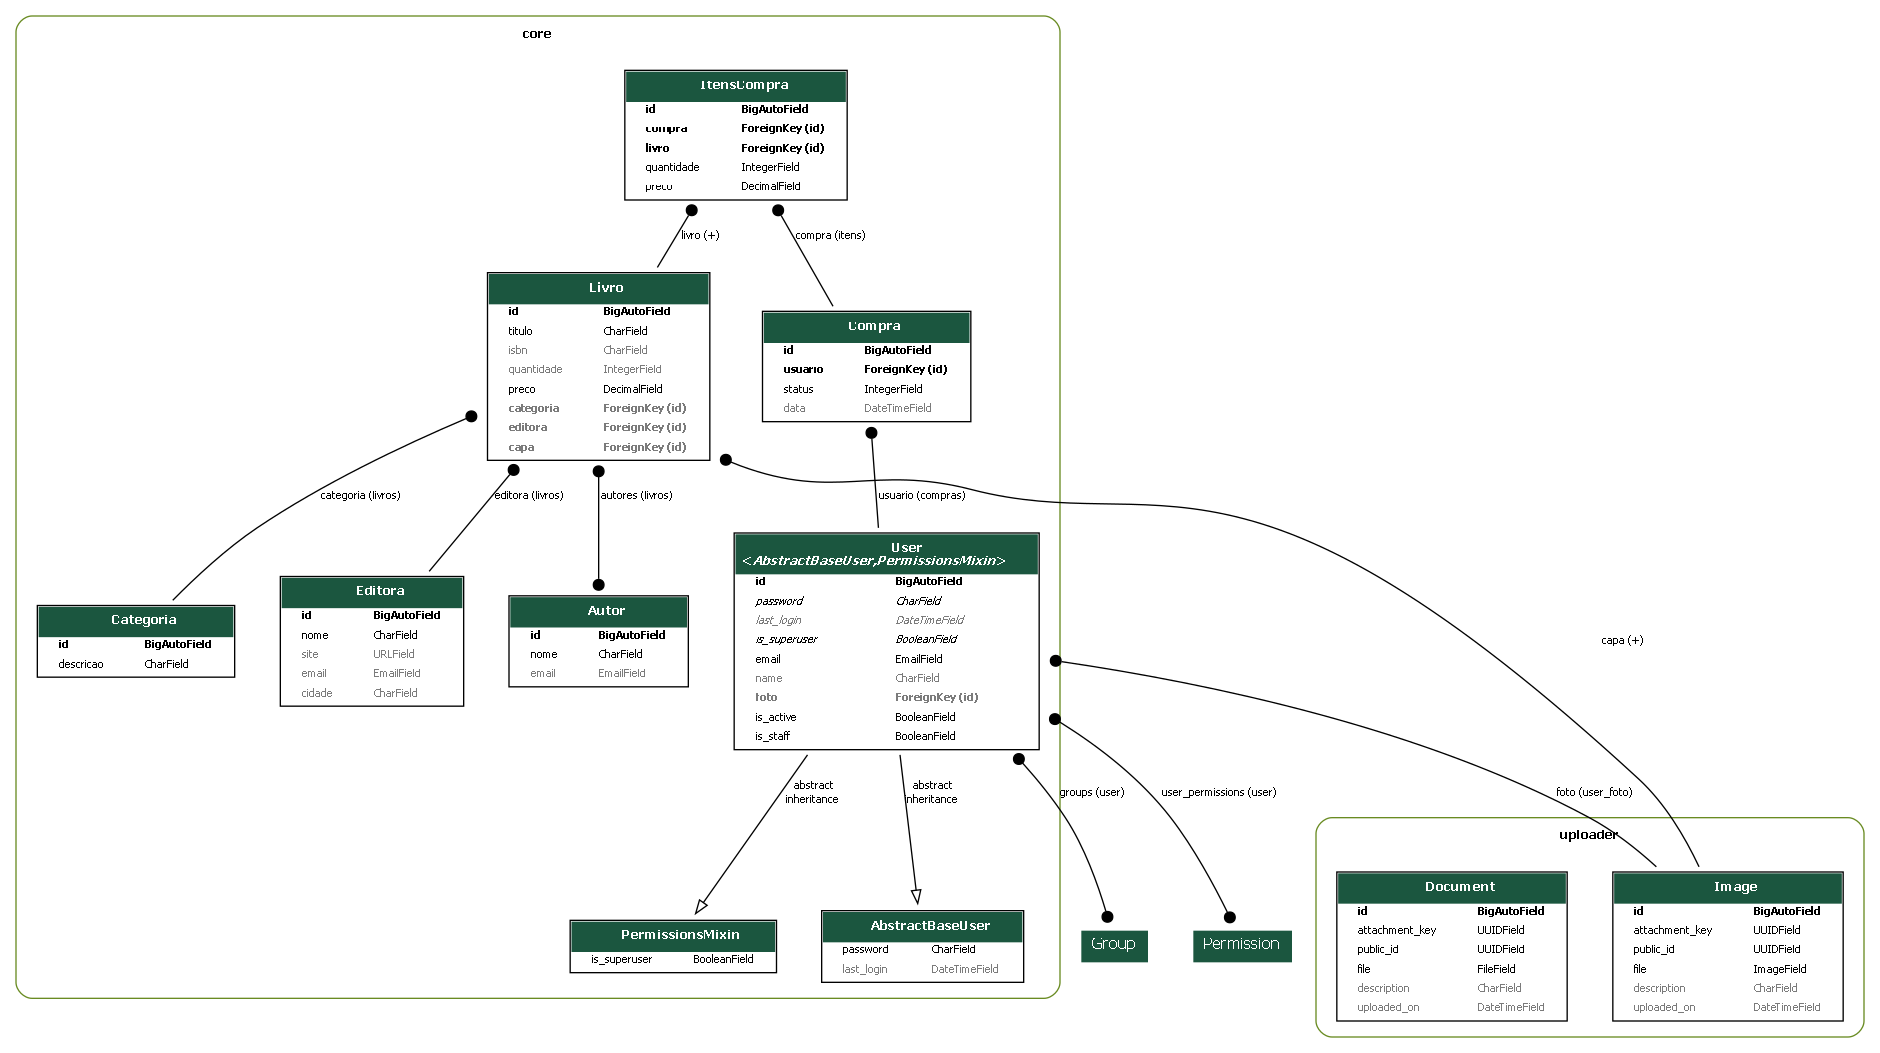
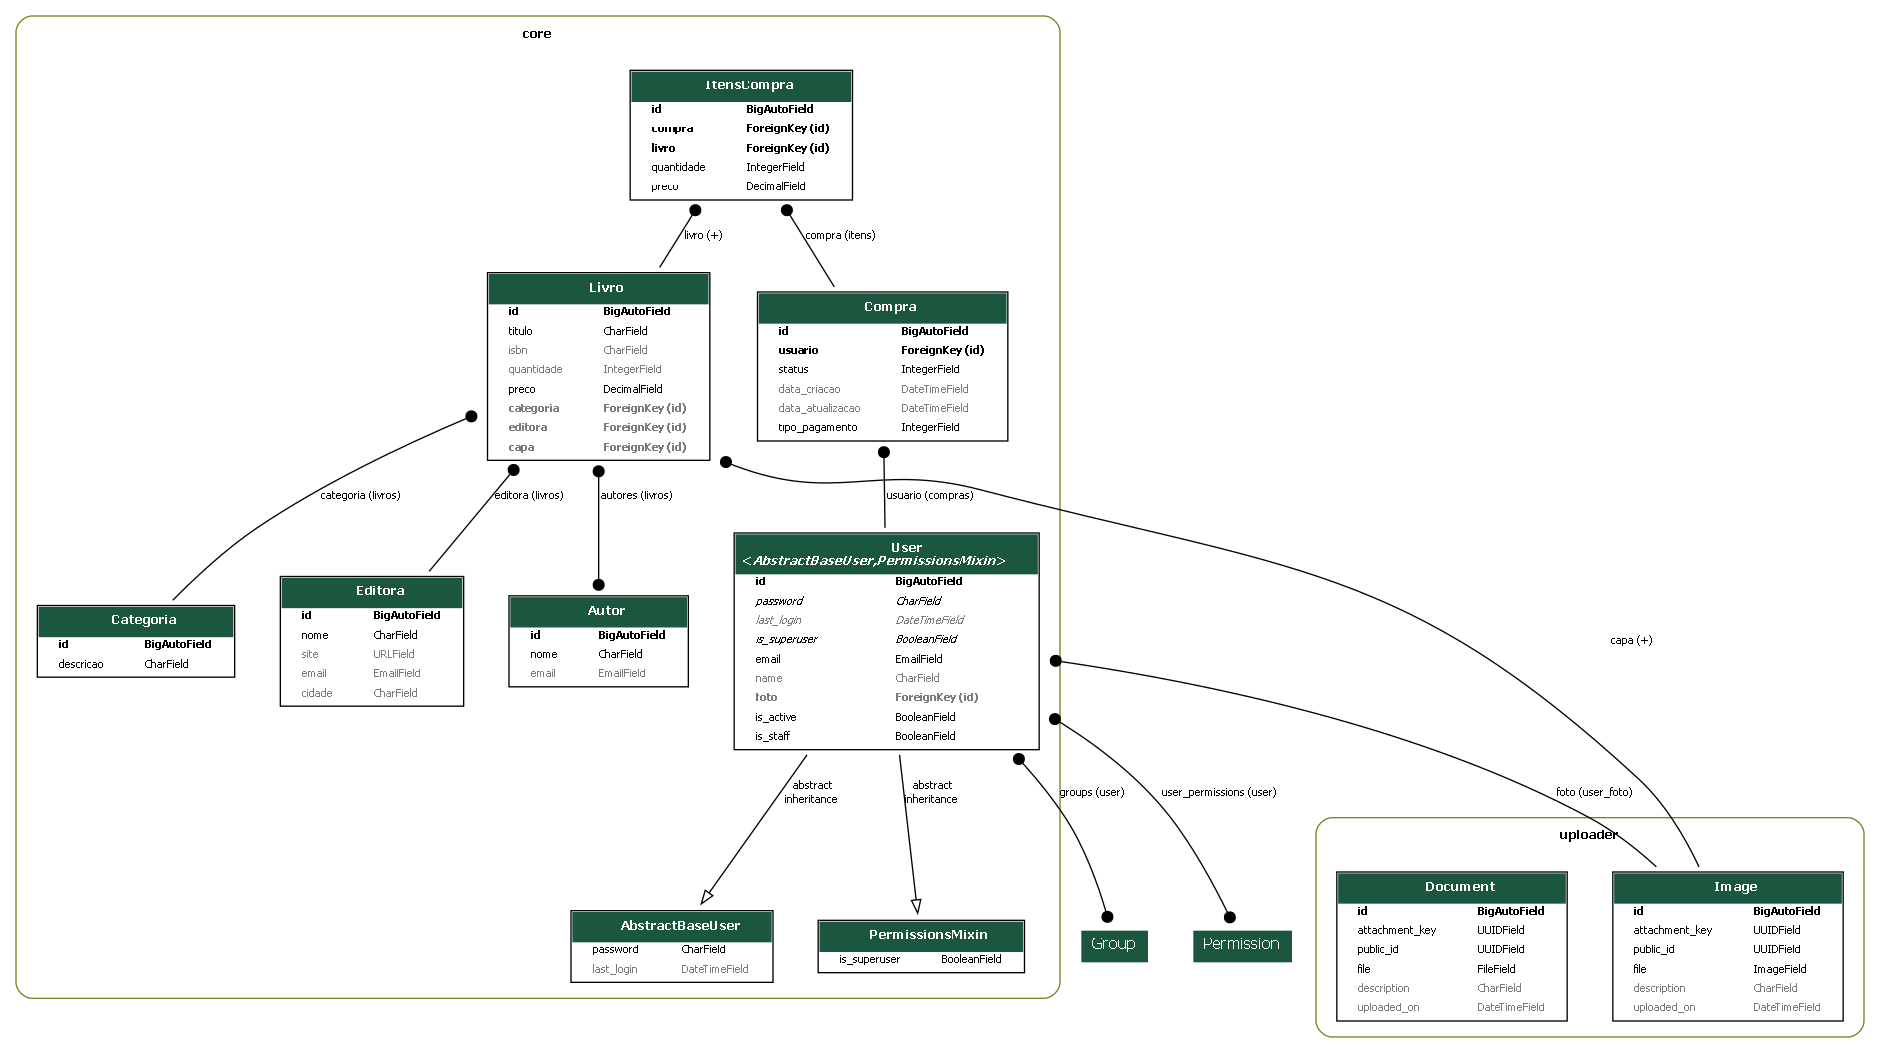
feat: adicionando tipo de pagamento à entidade de Compra

diff --git a/core/models/compra.py b/core/models/compra.py
@@ -11,16 +11,27 @@ class Compra(models.Model):
         PAGO = 3, 'Pago'
         ENTREGUE = 4, 'Entregue'
 
+    class TipoPagamento(models.IntegerChoices):
+        CARTAO_CREDITO = 1, 'Cartão de Crédito'
+        CARTAO_DEBITO = 2, 'Cartão de Débito'
+        PIX = 3, 'PIX'
+        BOLETO = 4, 'Boleto'
+        TRANSFERENCIA_BANCARIA = 5, 'Transferência Bancária'
+        DINHEIRO = 6, 'Dinheiro'
+        CHEQUE = 7, 'Cheque'
+        OUTRO = 8, 'Outro'
+
     usuario = models.ForeignKey(User, on_delete=models.PROTECT, related_name='compras')
     status = models.IntegerField(choices=StatusCompra.choices, default=StatusCompra.CARRINHO)
-    data = models.DateTimeField(auto_now_add=True)  # campo novo
-
+    data_criacao = models.DateTimeField(auto_now_add=True)  # campo novo
+    data_atualizacao = models.DateTimeField(auto_now=True)  # campo novo
+    tipo_pagamento = models.IntegerField(choices=TipoPagamento.choices, default=TipoPagamento.CARTAO_CREDITO)
 
     # choices: conjunto fixo de opções para o campo status.
-    ...
     @property
     def total(self):
         return sum(item.preco * item.quantidade for item in self.itens.all())
+
 
 class ItensCompra(models.Model):
     compra = models.ForeignKey(Compra, on_delete=models.CASCADE, related_name='itens')

diff --git a/core/serializers/compra.py b/core/serializers/compra.py
@@ -29,13 +29,14 @@ class ItensCompraSerializer(ModelSerializer):
 class CompraSerializer(ModelSerializer):
     usuario = CharField(source='usuario.email', read_only=True)
     status = CharField(source='get_status_display', read_only=True)
-    data_criacao = DateTimeField(auto_now_add=True)
-    data_atualizacao = DateTimeField(auto_now=True)
+    data_criacao = DateTimeField(read_only=True)
+    data_atualizacao = DateTimeField(read_only=True)
+    tipo_pagamento = CharField(source='get_tipo_pagamento_display', read_only=True) # novo campo
     itens = ItensCompraSerializer(many=True, read_only=True)
 
     class Meta:
         model = Compra
-        fields = ('id', 'usuario', 'status', 'data', 'total', 'itens')
+        fields = ('id', 'usuario', 'status', 'data_criacao', 'data_atualizacao', 'tipo_pagamento', 'total', 'itens')
 
 class CompraCreateUpdateSerializer(ModelSerializer):
     itens = ItensCompraCreateUpdateSerializer(many=True)

diff --git a/core/migrations/0017_rename_data_compra_data_criacao_and_more.py b/core/migrations/0017_rename_data_compra_data_criacao_and_more.py
@@ -1,0 +1,28 @@
+# Generated by Django 5.2.15 on 2026-09-25 02:19
+
+from django.db import migrations, models
+
+
+class Migration(migrations.Migration):
+
+    dependencies = [
+        ('core', '0016_compra_data_itenscompra_preco'),
+    ]
+
+    operations = [
+        migrations.RenameField(
+            model_name='compra',
+            old_name='data',
+            new_name='data_criacao',
+        ),
+        migrations.AddField(
+            model_name='compra',
+            name='data_atualizacao',
+            field=models.DateTimeField(auto_now=True),
+        ),
+        migrations.AddField(
+            model_name='compra',
+            name='tipo_pagamento',
+            field=models.IntegerField(choices=[(1, 'Cartão de Crédito'), (2, 'Cartão de Débito'), (3, 'PIX'), (4, 'Boleto'), (5, 'Transferência Bancária'), (6, 'Dinheiro'), (7, 'Outro')], default=1),
+        ),
+    ]

diff --git a/core/migrations/0018_alter_compra_tipo_pagamento.py b/core/migrations/0018_alter_compra_tipo_pagamento.py
@@ -1,0 +1,18 @@
+# Generated by Django 5.2.15 on 2026-09-25 02:25
+
+from django.db import migrations, models
+
+
+class Migration(migrations.Migration):
+
+    dependencies = [
+        ('core', '0017_rename_data_compra_data_criacao_and_more'),
+    ]
+
+    operations = [
+        migrations.AlterField(
+            model_name='compra',
+            name='tipo_pagamento',
+            field=models.IntegerField(choices=[(1, 'Cartão de Crédito'), (2, 'Cartão de Débito'), (3, 'PIX'), (4, 'Boleto'), (5, 'Transferência Bancária'), (6, 'Dinheiro'), (7, 'Cheque'), (8, 'Outro')], default=1),
+        ),
+    ]
